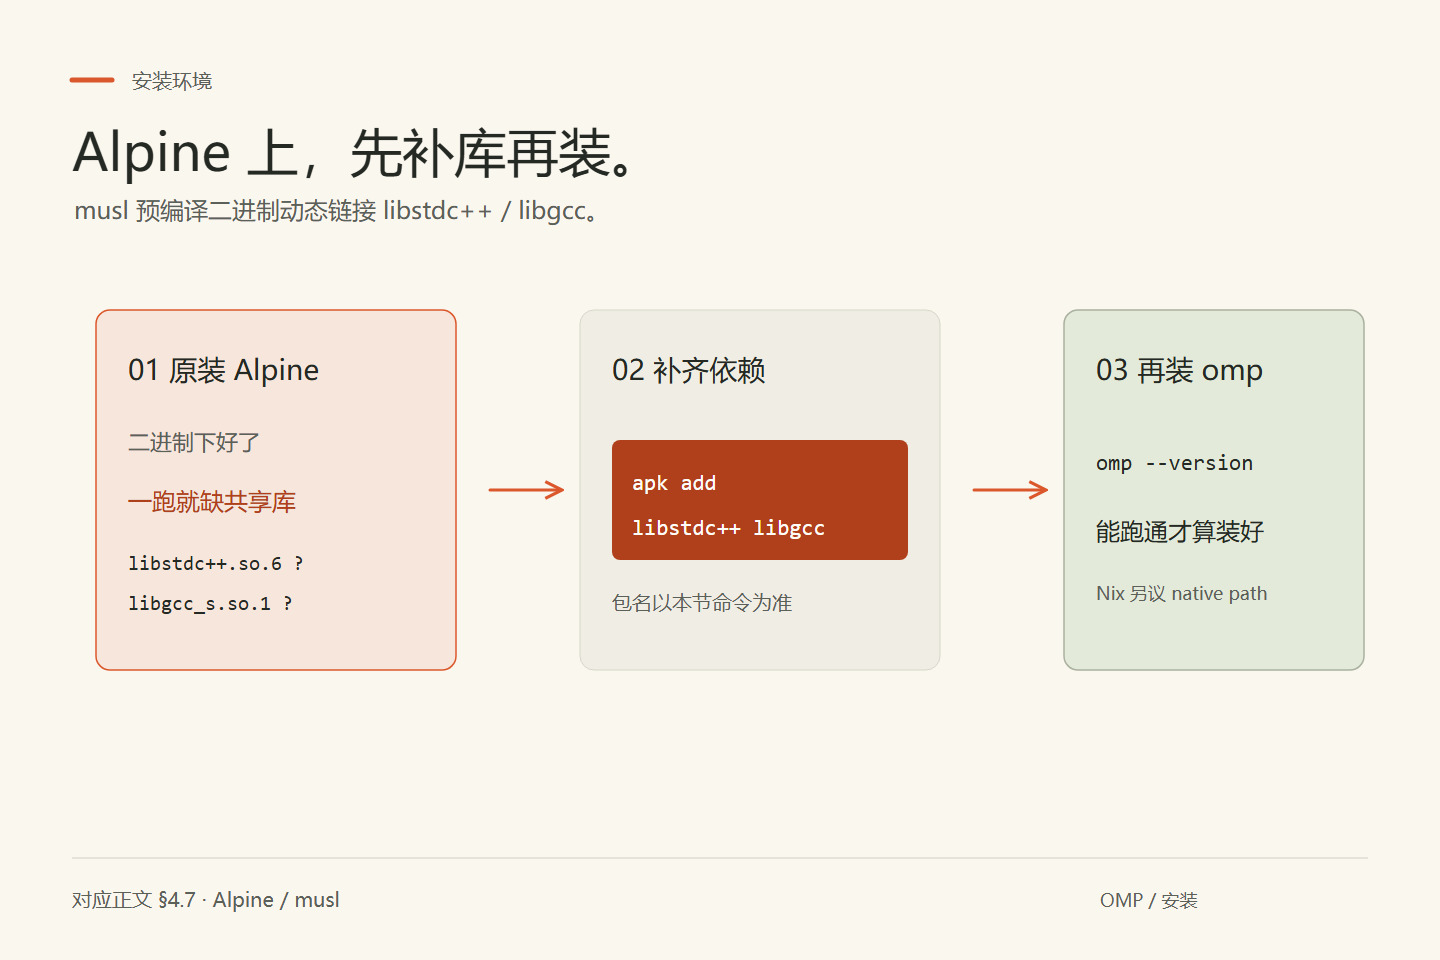
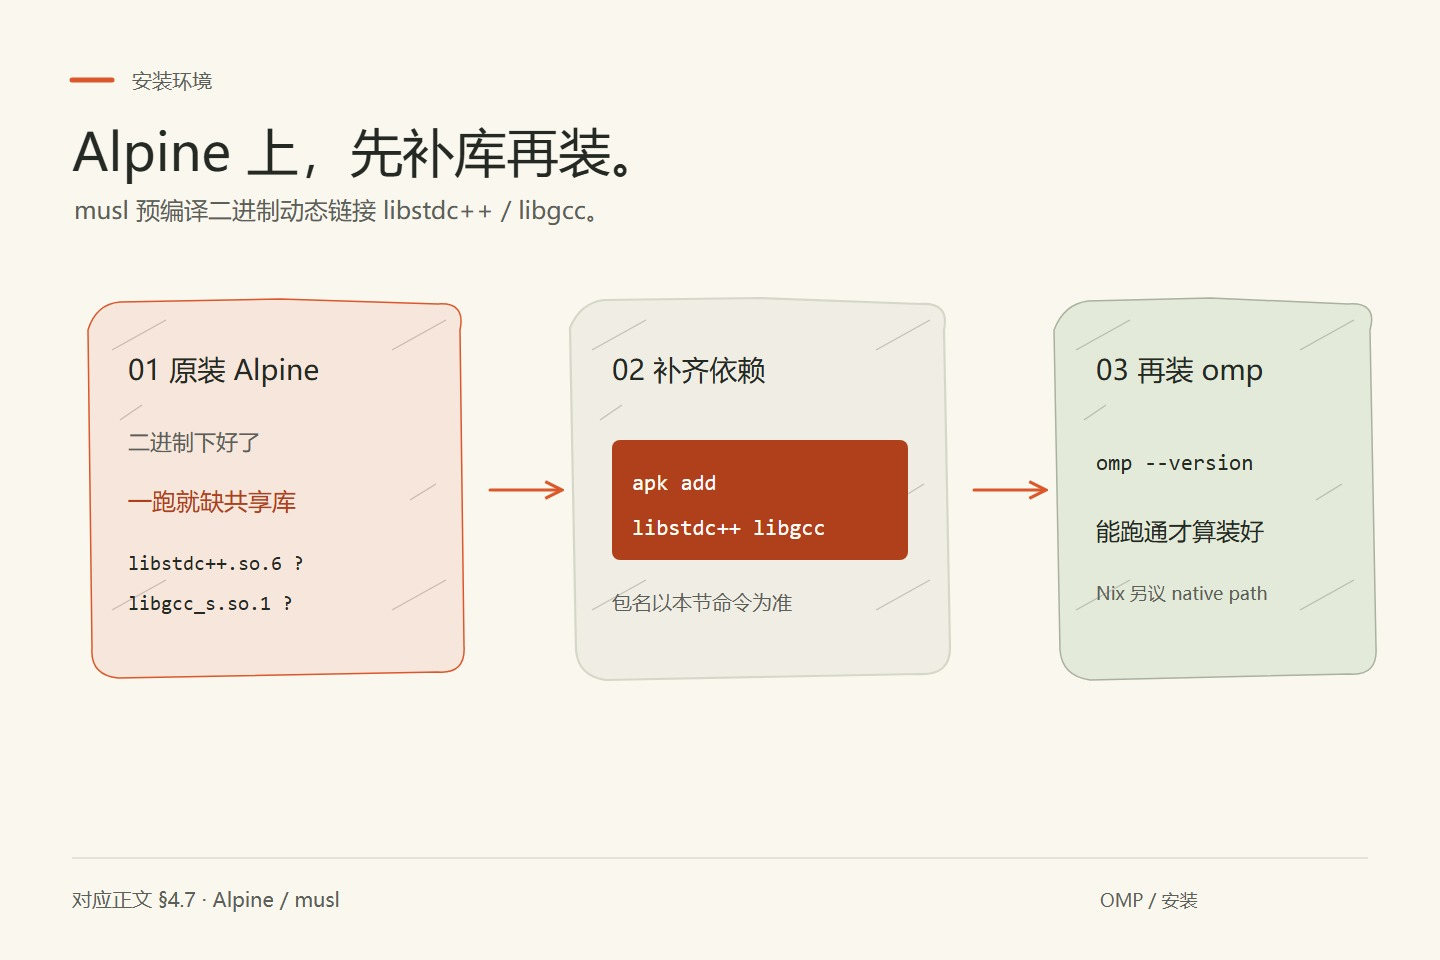
fix(art): give Alpine plate hand-drawn panel edges
- Replaced identical rounded cards with uneven Q/L paths, visible grain, and varied stroke weights.
- Added a geometry regression and re-rendered the shipped JPG; label contrast is unchanged.

diff --git a/tests/test_omp_overhaul.py b/tests/test_omp_overhaul.py
@@ -506,5 +506,58 @@ class SvgPlateContrastTests(unittest.TestCase):
         self.assertEqual(offenders, [], "white plate labels below 4.5:1")
 
 
+class SvgPlateCraftTests(unittest.TestCase):
+    """Hand-written SVG panels must not fall back to slide-deck rectangles."""
+
+    SVG = REPO_ROOT / "omp" / "overhaul" / "visual-redesign" / "alpine-pitfall.svg"
+    PANELS = {
+        "warn": (96, 310, 456, 670),
+        "soft": (580, 310, 940, 670),
+        "hi": (1064, 310, 1364, 670),
+    }
+
+    def test_hero_panels_have_uneven_drawn_edges_and_grain(self):
+        text = self.SVG.read_text(encoding="utf-8")
+
+        weights = []
+        for name, (left, top, right, bottom) in self.PANELS.items():
+            self.assertIsNone(
+                re.search(rf'<rect\b[^>]*\bclass="{name}"', text),
+                f"{name} panel is still a machine-perfect rect")
+            path = re.search(
+                rf'<path\b[^>]*\bclass="{name}"[^>]*\bd="([^"]+)"', text)
+            self.assertIsNotNone(path, f"{name} panel has no drawn path")
+            d = path.group(1)
+            self.assertGreaterEqual(d.count("Q"), 4,
+                                    f"{name} panel has no hand-drawn corners")
+            pairs = [(float(x), float(y)) for x, y in re.findall(
+                r"(-?\d+(?:\.\d+)?)\s+(-?\d+(?:\.\d+)?)", d)]
+            self.assertGreaterEqual(len(pairs), 10, f"{name} path is too plain")
+            xs, ys = [x for x, _ in pairs], [y for _, y in pairs]
+            overshoot = max(left - min(xs), top - min(ys),
+                            max(xs) - right, max(ys) - bottom)
+            self.assertGreaterEqual(overshoot, 6,
+                                    f"{name} wobble is too small to see")
+            widths = []
+            for shape in re.finditer(rf'<path\b[^>]*\bclass="{name}"[^>]*>', text):
+                width = re.search(r'\bstroke-width="([\d.]+)"', shape.group(0))
+                if width:
+                    widths.append(float(width.group(1)))
+            self.assertEqual(len(widths), 1, f"{name} panel needs one stroke weight")
+            weights.append(widths[0])
+
+        hatch = re.findall(
+            r'<g\b[^>]*\bclass="panel-hatch"[^>]*\bopacity="([\d.]+)"[^>]*>(.*?)</g>',
+            text, re.S)
+        self.assertEqual(len(hatch), 3, "each panel needs pencil grain")
+        for opacity, body in hatch:
+            self.assertTrue(0.18 <= float(opacity) <= 0.3,
+                            f"grain opacity {opacity} is not visible enough")
+            self.assertGreaterEqual(body.count("<path"), 5,
+                                    "grain needs several hatch strokes")
+        self.assertEqual(len(set(weights)), 3,
+                         "panels need three distinct stroke weights")
+
+
 if __name__ == "__main__":
     unittest.main()

diff --git a/omp/overhaul/visual-redesign/README.md b/omp/overhaul/visual-redesign/README.md
@@ -1,5 +1,9 @@
 # 插画重绘设计稿
 
+## 2026-11-18 手绘质感补强
+
+`alpine-pitfall.svg` 的三块内容卡从等圆角矩形换成带错位的手绘路径，叠了低透明度排线，三块边框粗细也各不相同；对应 JPG 已按 1440×960 / q=92 重导。新增回归 `tests/test_omp_overhaul.py::SvgPlateCraftTests` 锁住可见抖动、排线密度与白字容器对比。
+
 2026-11-04：用户要求使用 yang0/handraw-style 提升美观度。此前局部遮盖补字稿仅存于 `.scratch/`，未替换正文插画；本轮按完整重绘处理。
 
 ## 统一方向
